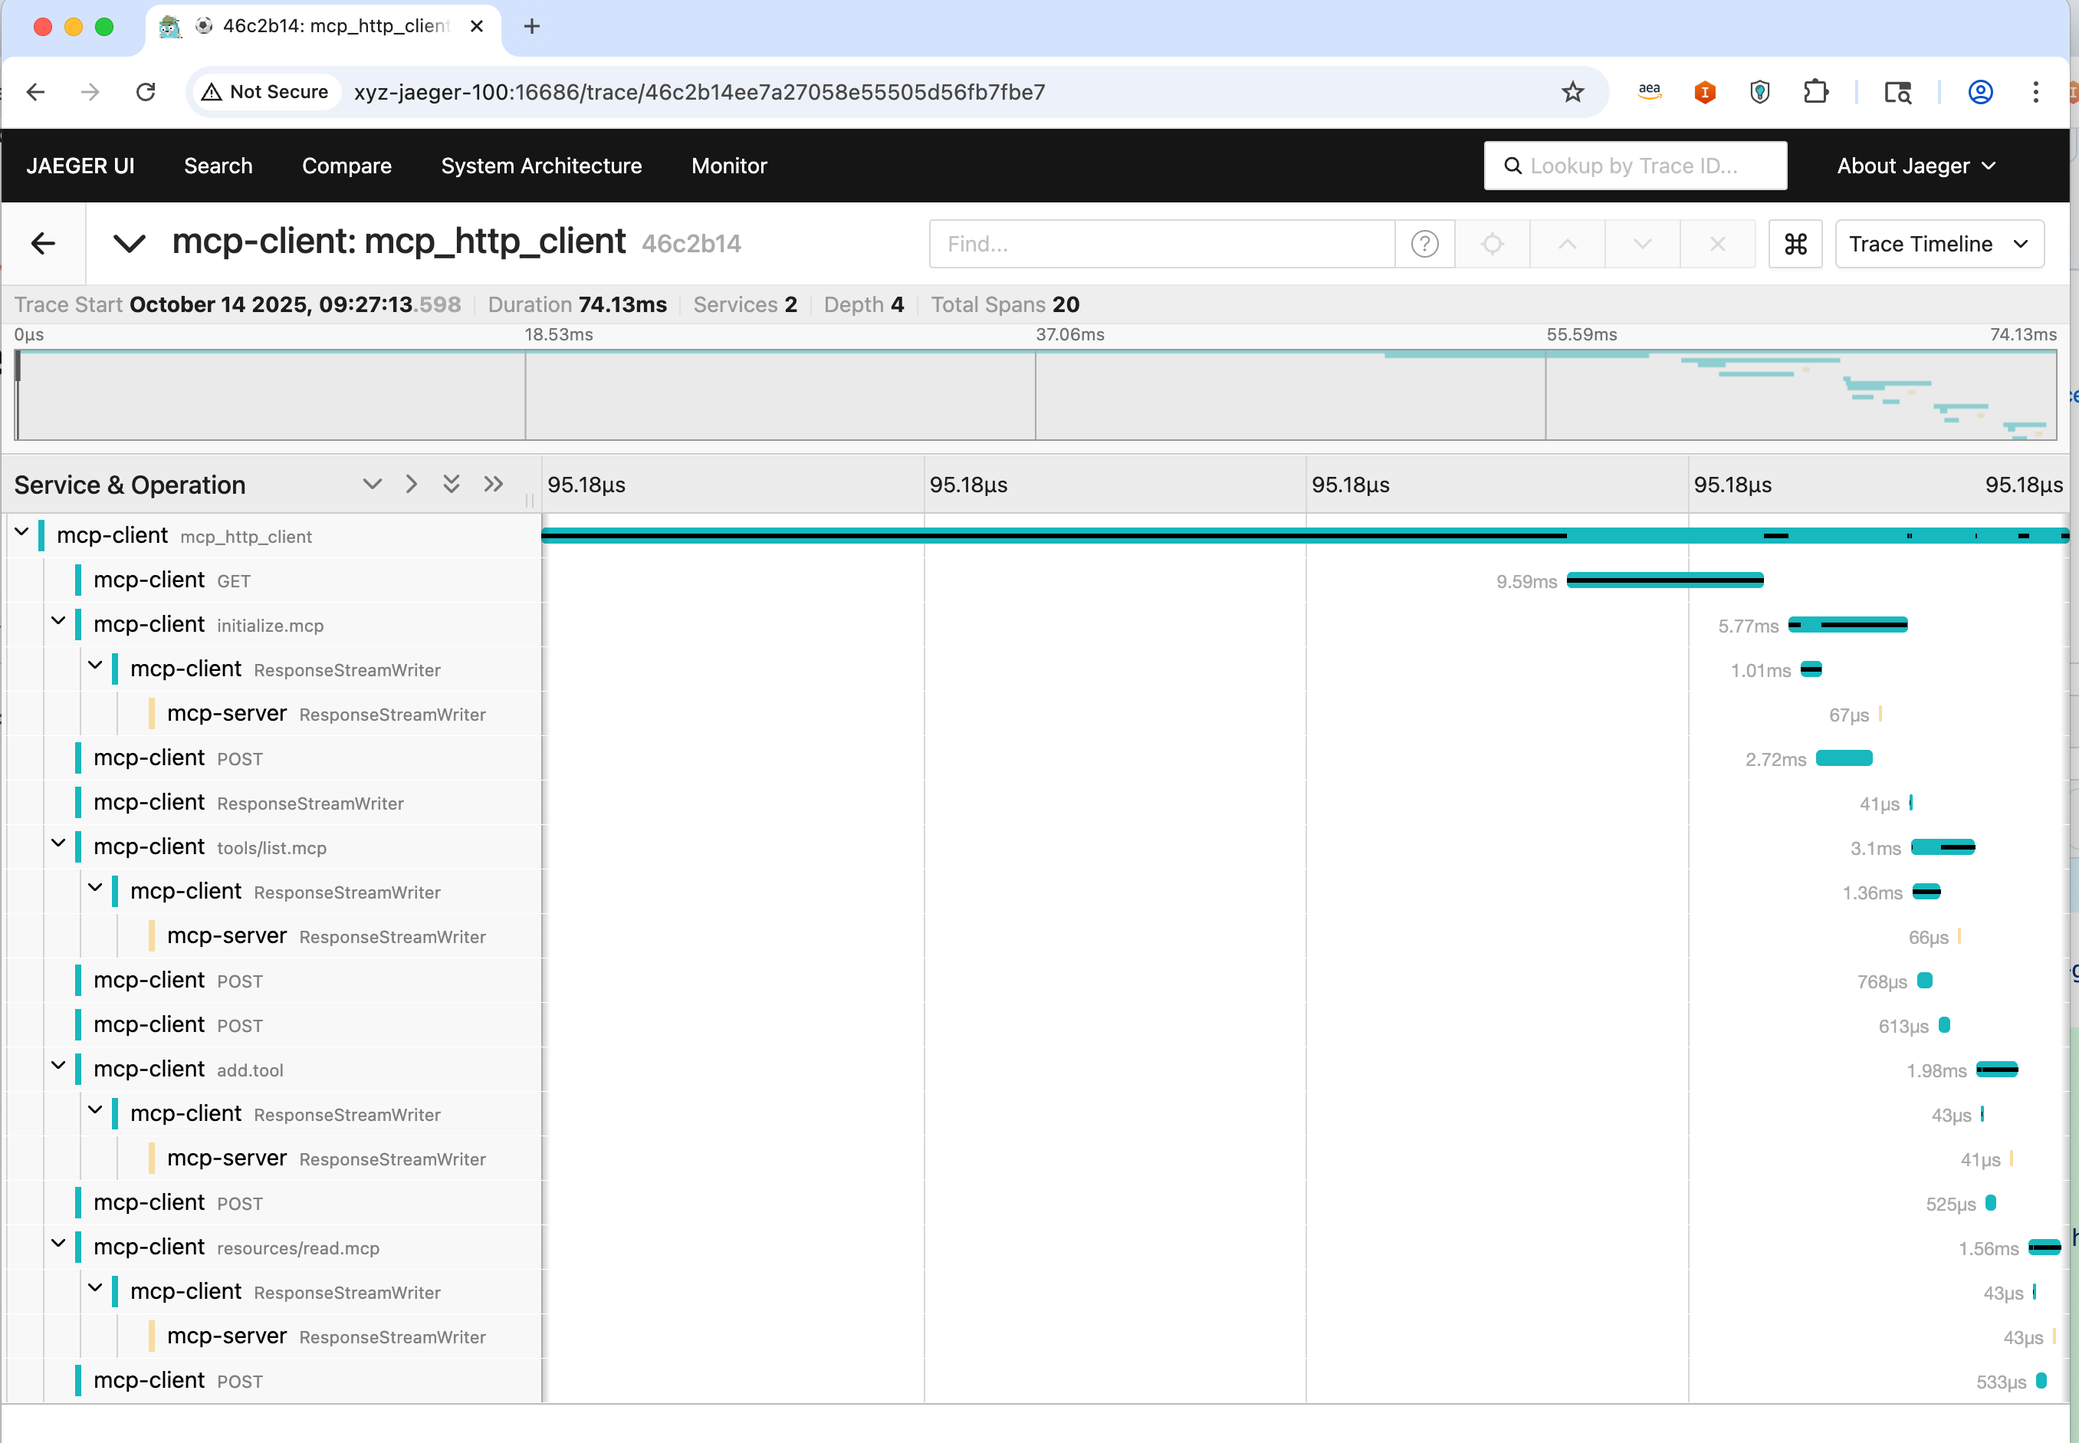
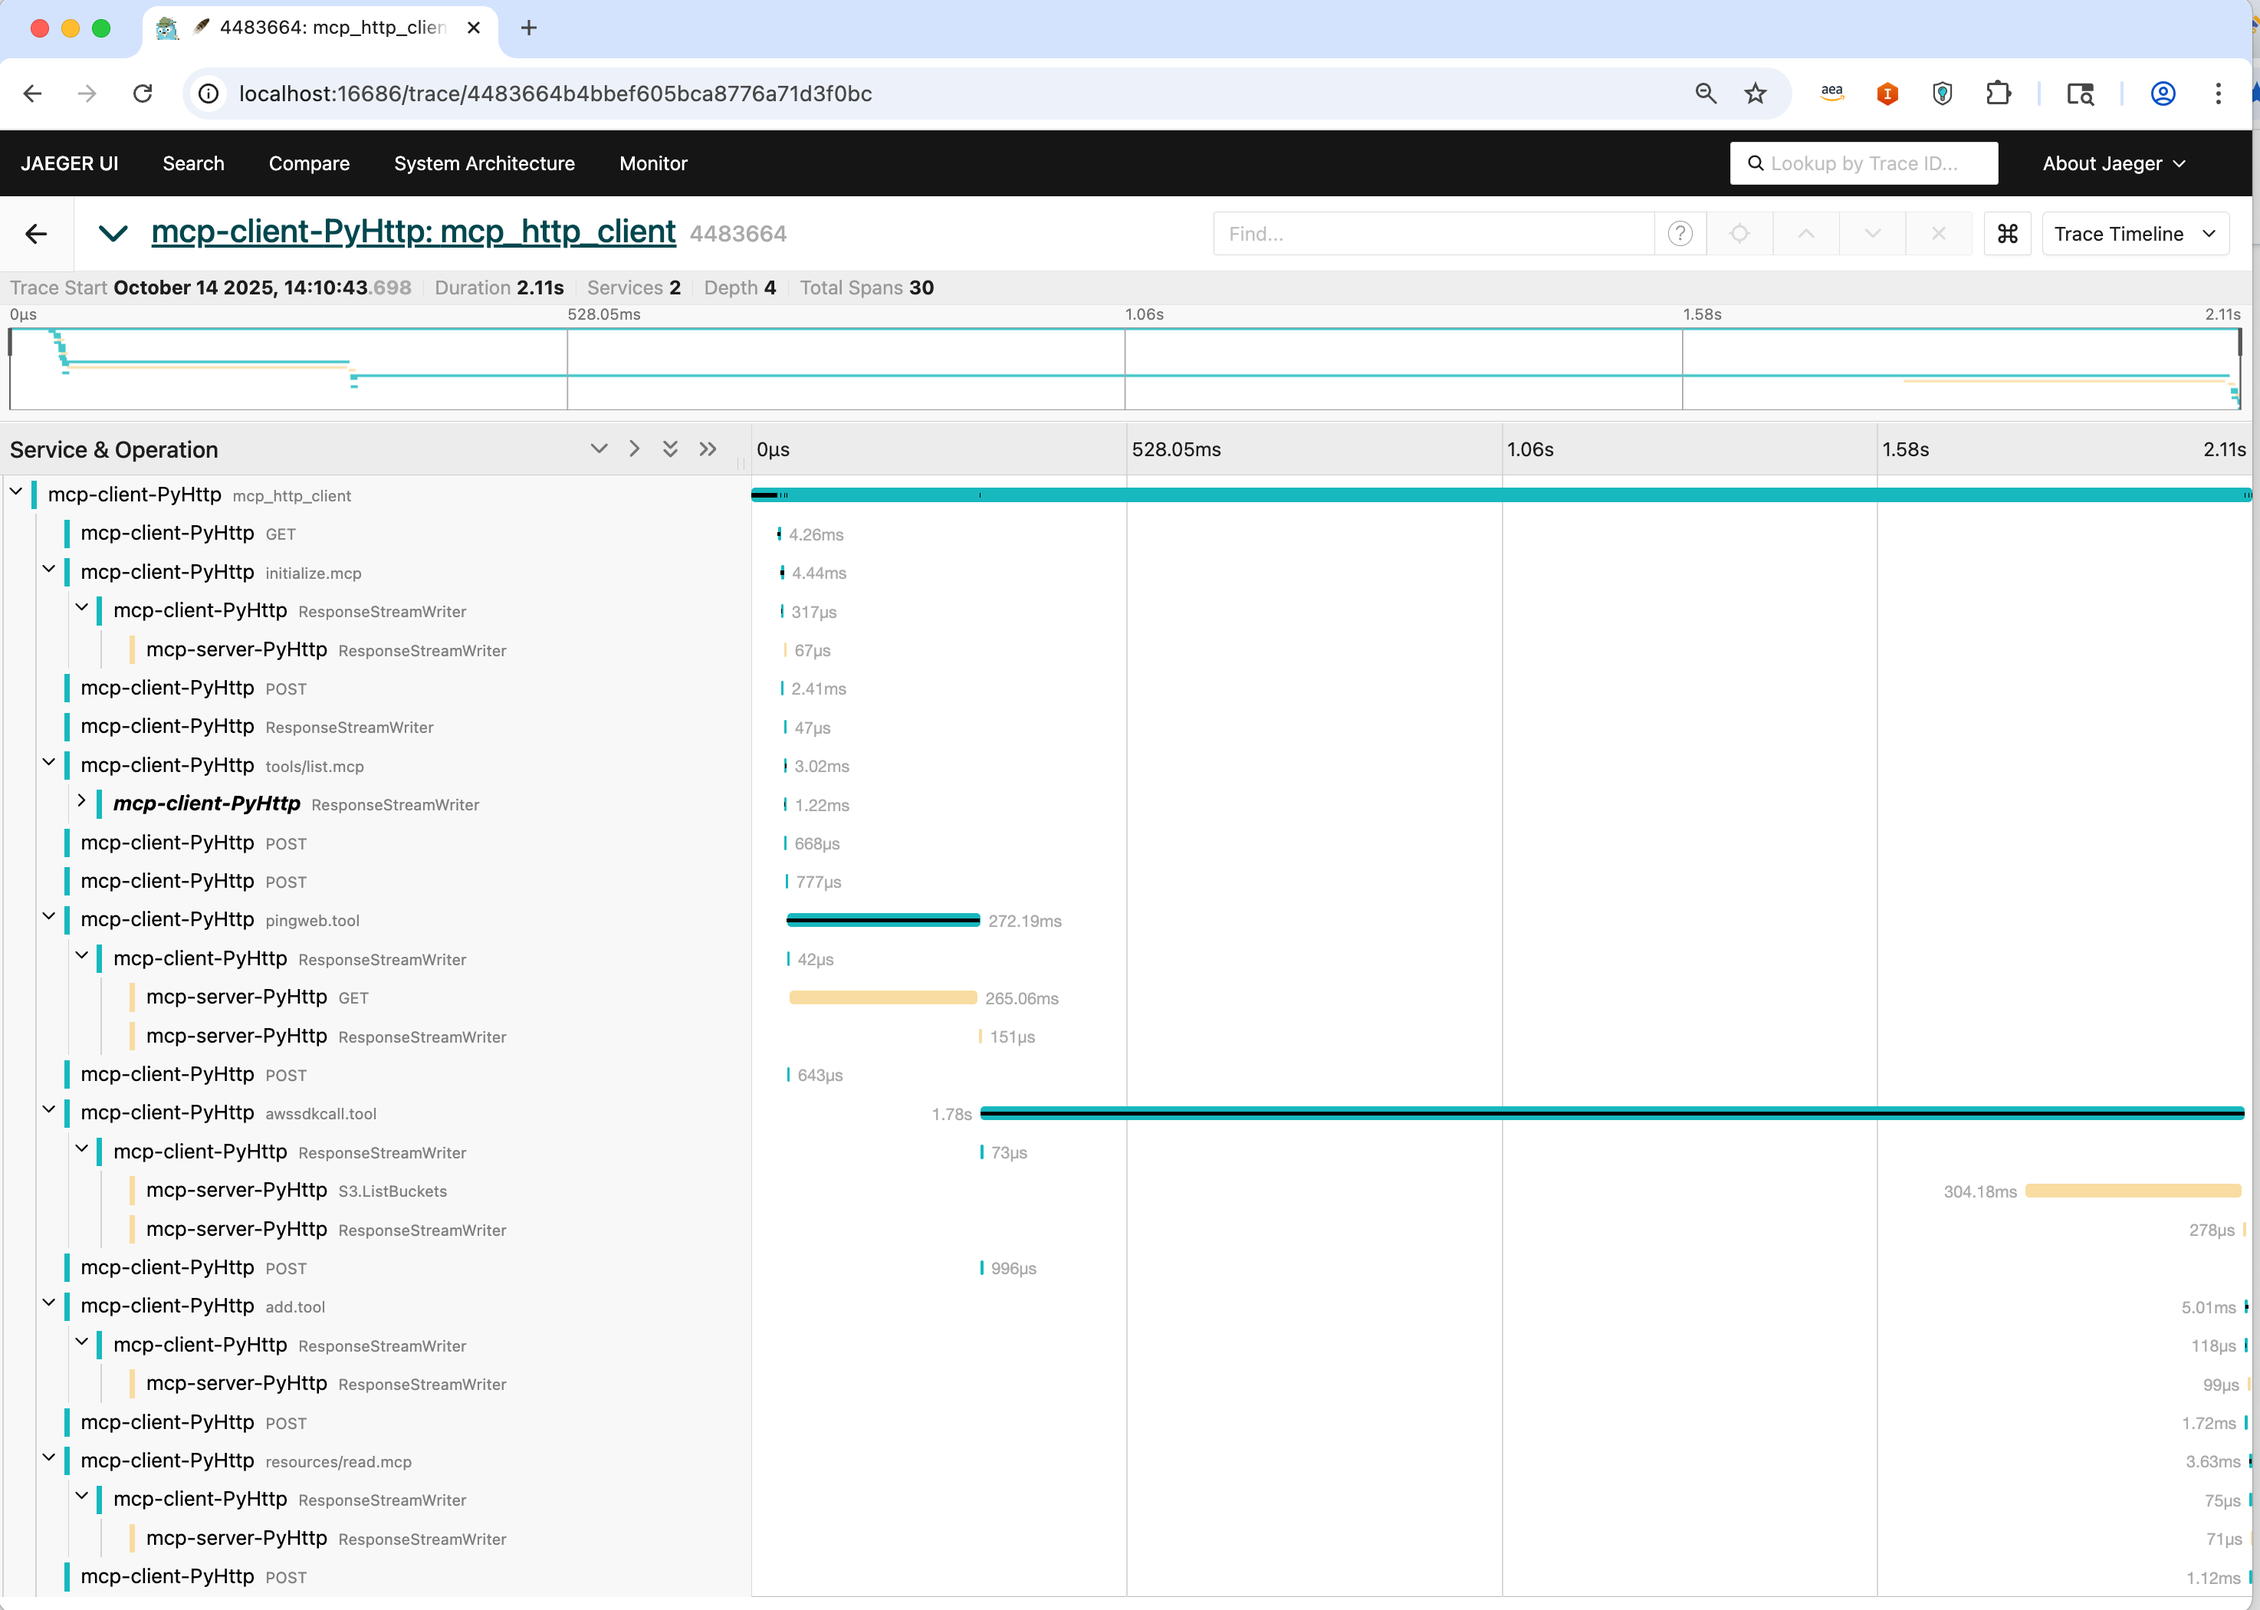
update http example.

diff --git a/instrumentation-genai/opentelemetry-instrumentation-mcp/examples/http-transport/server/server.py b/instrumentation-genai/opentelemetry-instrumentation-mcp/examples/http-transport/server/server.py
@@ -1,7 +1,30 @@
 #!/usr/bin/env python3
 """MCP server with HTTP transport using SSE."""
 
+import requests
+import boto3
 from mcp.server.fastmcp import FastMCP
+
+
+def call_http(url: str) -> str:
+    try:
+        response = requests.get(url, timeout=5)
+        return f"HTTP call succeeded. Status: {response.status_code}, Body length: {len(response.content)} bytes"
+    except requests.RequestException as exc:
+        return f"HTTP call failed: {str(exc)}"
+
+
+def call_s3() -> str:
+    try:
+        s3_client = boto3.client("s3")
+        response = s3_client.list_buckets()
+        buckets = ", ".join([bucket["Name"] for bucket in response.get("Buckets", [])])
+        if not buckets:
+            buckets = "No buckets found"
+        return f"S3 call succeeded. Buckets: {buckets}"
+    except Exception as exc:
+        return f"S3 call failed: {str(exc)}"
+
 
 mcp = FastMCP("MCP HTTP Server")
 
@@ -16,6 +39,18 @@ def add(a: int, b: int) -> int:
 def multiply(a: int, b: int) -> int:
     """Multiply two numbers"""
     return a * b
+
+
+@mcp.tool()  # type: ignore[misc]
+def pingweb(url: str) -> str:
+    """Make an HTTP GET request to the specified URL"""
+    return call_http(url)
+
+
+@mcp.tool()  # type: ignore[misc]
+def awssdkcall() -> str:
+    """Make an AWS S3 API call to list buckets"""
+    return call_s3()
 
 
 @mcp.resource("greeting://{name}")  # type: ignore[misc]

diff --git a/instrumentation-genai/opentelemetry-instrumentation-mcp/examples/http-transport/client/client.py b/instrumentation-genai/opentelemetry-instrumentation-mcp/examples/http-transport/client/client.py
@@ -24,6 +24,16 @@ async def main():
                 tools = await session.list_tools()
                 print(f"Available tools: {[t.name for t in tools.tools]}")
 
+                # Call pingweb tool
+                result = await session.call_tool(
+                    "pingweb", arguments={"url": "http://www.aws.com"}
+                )
+                print(f"pingweb result: {result.content}")
+
+                # Call awssdkcall tool
+                result = await session.call_tool("awssdkcall")
+                print(f"awssdkcall result: {result.content}")
+
                 # Call tool
                 result = await session.call_tool(
                     "add", arguments={"a": 5, "b": 3}

diff --git a/instrumentation-genai/opentelemetry-instrumentation-mcp/examples/http-transport/README.md b/instrumentation-genai/opentelemetry-instrumentation-mcp/examples/http-transport/README.md
@@ -22,7 +22,7 @@ cd server
 
 OTEL_SERVICE_NAME=mcp-server-PyHttp \
   OTEL_TRACES_EXPORTER=otlp \
-  OTEL_EXPORTER_OTLP_TRACES_ENDPOINT=http://xyz-jaeger-100:4317/v1/traces \
+  OTEL_EXPORTER_OTLP_TRACES_ENDPOINT=http://localhost:4317/v1/traces \
   uv run opentelemetry-instrument python ./server.py
 ```
 
@@ -48,7 +48,7 @@ cd client
 
 OTEL_SERVICE_NAME=mcp-client-PyHttp \
   OTEL_TRACES_EXPORTER=otlp \
-  OTEL_EXPORTER_OTLP_TRACES_ENDPOINT=http://xyz-jaeger-100:4317/v1/traces \
+  OTEL_EXPORTER_OTLP_TRACES_ENDPOINT=http://localhost:4317/v1/traces \
   uv run opentelemetry-instrument python ./client.py
 ```
 
